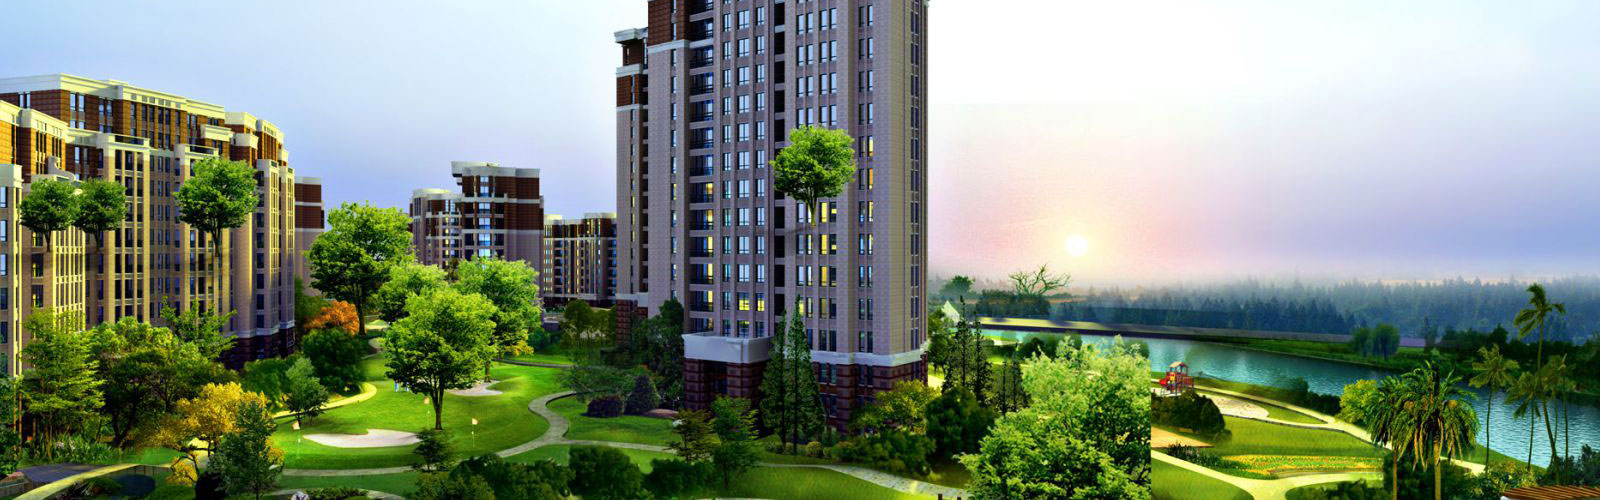
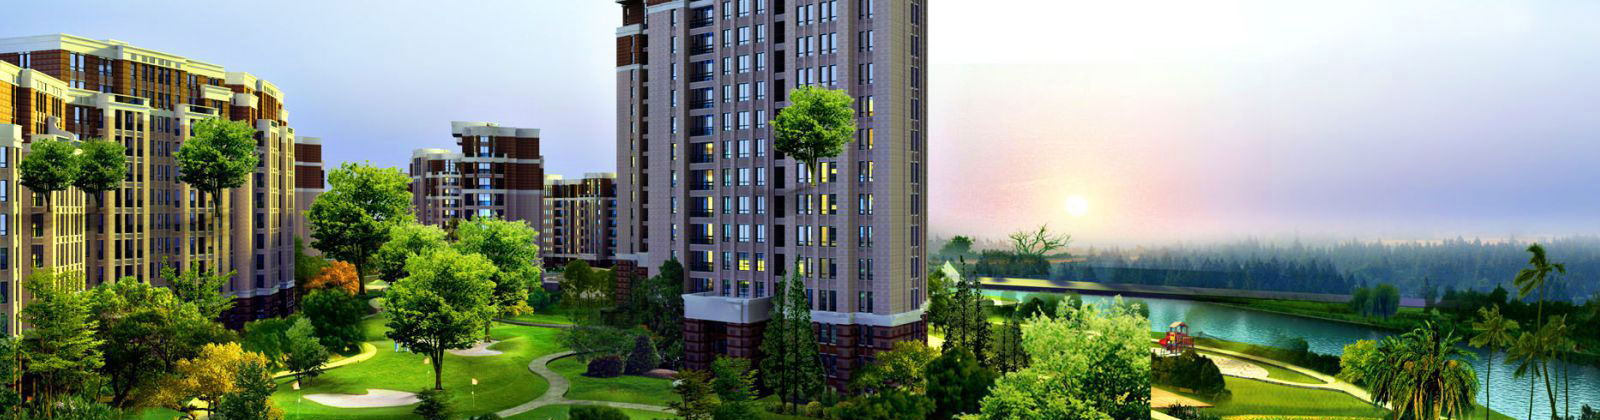
Edit images of carousel & fix issue about layout without login form

diff --git a/index.html b/index.html
@@ -71,14 +71,15 @@
                     </div>
                 </div>
             </div>
-            <div class="carousel-content text-left position-absolute d-none d-sm-none d-md-block">
+            <div class="carousel-overlay"></div>
+            <div class="carousel-content text-left d-none d-sm-none d-md-block">
                 <div class="container">
-                    <div class="row justify-content-md-center align-items-center">
-                        <div class="caption col-lg-5 col-md-6">
+                    <div class="row align-items-center">
+                        <div class="caption col-lg-5 ml-lg-auto col-md-6">
                             <h1 class="caption-title">Nâng cao</h1>
                             <p class="caption-content">Hiệu quả trong công việc</p>
                         </div>
-                        <div class="col-lg-5 col-md-6">
+                        <div class="col-lg-5 mr-lg-auto col-md-6">
                             <form class="login-form ml-md-auto" action="">
                                 <h5 class="login-form-title">Đăng nhập</h5>
                                 <div class="form-group">
@@ -87,7 +88,7 @@
                                 <div class="form-group">
                                     <input class="form-control" type="text" placeholder="Password">
                                 </div>
-                                <a class="forgot-password" href="#">Quên mật khẩu</a>
+                                <a class="forgot-password d-md-none d-lg-block" href="#">Quên mật khẩu</a>
                                 <button class="btn btn-block btn-signin font-weight-bold">Đăng nhập</button>
                             </form>
                         </div>

diff --git a/assets/css/main.css b/assets/css/main.css
@@ -48,18 +48,28 @@ h2 {
     border-top: 2px solid #26a264;
 }
 
+.page-header .carousel-overlay {
+    position: absolute;
+    top: 0;
+    left: 0;
+    right: 0;
+    bottom: 0;
+    background-color: rgba(0, 0, 0, .4);
+}
+
 .page-header .carousel-content {
+    align-items: center;
+    position: absolute;
     top: 0;
     left: 0;
     bottom: 0;
     right: 0;
-    padding-top: 20px;
 }
 
 .page-header .login-form {
-    max-width: 230px;
+    max-width: 270px;
     background-color: #fff;
-    padding: 10px;
+    padding: 15px 15px 25px 15px;
     border-radius: 3px;
 }
 
@@ -223,15 +233,15 @@ footer .copyright {
     .page-header .navbar-nav {
         align-items: center;
     }
-
-    .page-header .carousel-content {
-        padding-top: 5%;
-    }
 }
 
 @media (min-width: 768px) {
     footer .contact-item:not(:last-child) {
         margin-right: 70px;
+    }
+    
+    .page-header .carousel-content {
+        display: flex !important;
     }
 }
 
